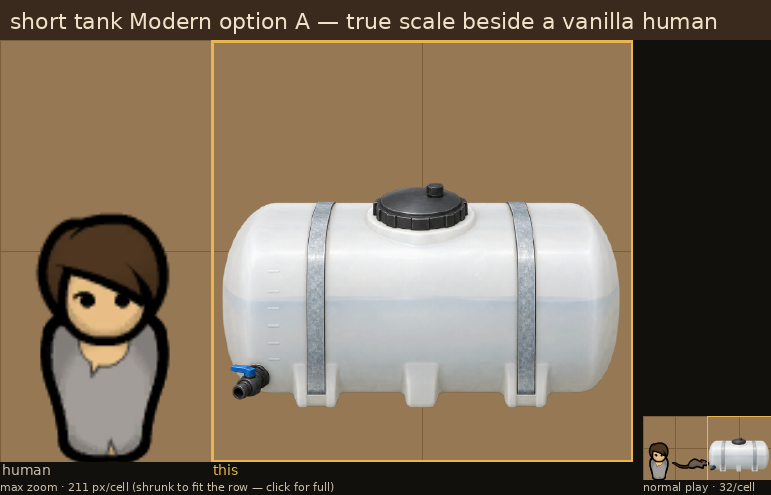
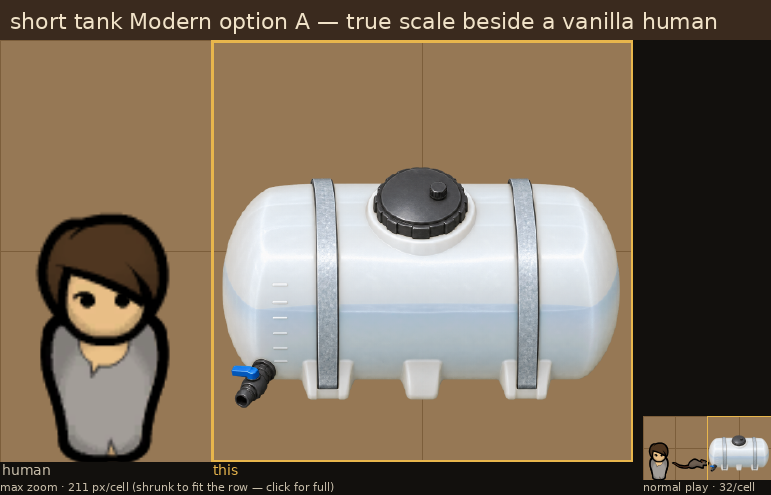
Modern art: rebuild tank option sheets (were empty), redraw short tank A/B from a higher camera, drop judge-cut options
A subset re-run of the phone builder had overwritten the tank option sheets; lesson filed.

Claude-Session: https://claude.ai/code/session_01UmAxvyKSBNSaP4CrEDGU1r

diff --git a/Transient/pile_2026-10-22/modern_art/progress.md b/Transient/pile_2026-10-22/modern_art/progress.md
@@ -76,3 +76,13 @@ from the art), rebuild, deploy.
 
 ## Shas
 f1c25b3a03 (item) · 2ef76419c3 (brief) · 50733d22fb (drafts, phone collections, pump item, 2 lessons). DONE.
+
+## 8. Seat pre-review + naive judge fixes (2026-10-22, later)
+- Defect the seat caught: the four tank `_0_options.png` sheets showed only the current red art. Cause: the reel-only
+  re-run of `build_phone.py` (keep = reels) still walked the tank loop with zero options and overwrote the tank option
+  sheets AFTER I had looked at them. Fixed (loop skips buildings with no kept options); all four rebuilt and re-read.
+- Naive judge: best picks reel A, LiquidTankTall B, UniversalCargoTank B, XTall A. Dropped short C (pressure tank reads as
+  plumbing gear), Cargo C (≈ short A) and XTall C (≈ Tall A) from drafts and phone.
+- Short A and B redrawn twice with a raised camera (v3, axis-aligned): A now shows a lit top with the lid as an
+  ellipse; B is axis-aligned but its top face is still weak (the generator resists a high angle on horizontal drums) —
+  flagged, not hidden. v1/v2 raws kept in D:\ClaudeWork\rimmandrake\modern_art\raw.

diff --git a/infrastructure/state/lessons/20261023T022059Z-BENCH-collection-builder-re-run-for-subset.md b/infrastructure/state/lessons/20261023T022059Z-BENCH-collection-builder-re-run-for-subset.md
@@ -1,0 +1,1 @@
+A collection builder re-run for a SUBSET (keep = reels only) silently overwrote the other subjects' summary sheets with empty ones after the seat had already looked at them; every 'looked at it' check is void once a later run touches the folder. Make builders skip subjects with nothing kept, and re-Read the final folder (sizes + images) as the LAST step before publishing, not mid-way (modern art, 2026-10-22).
